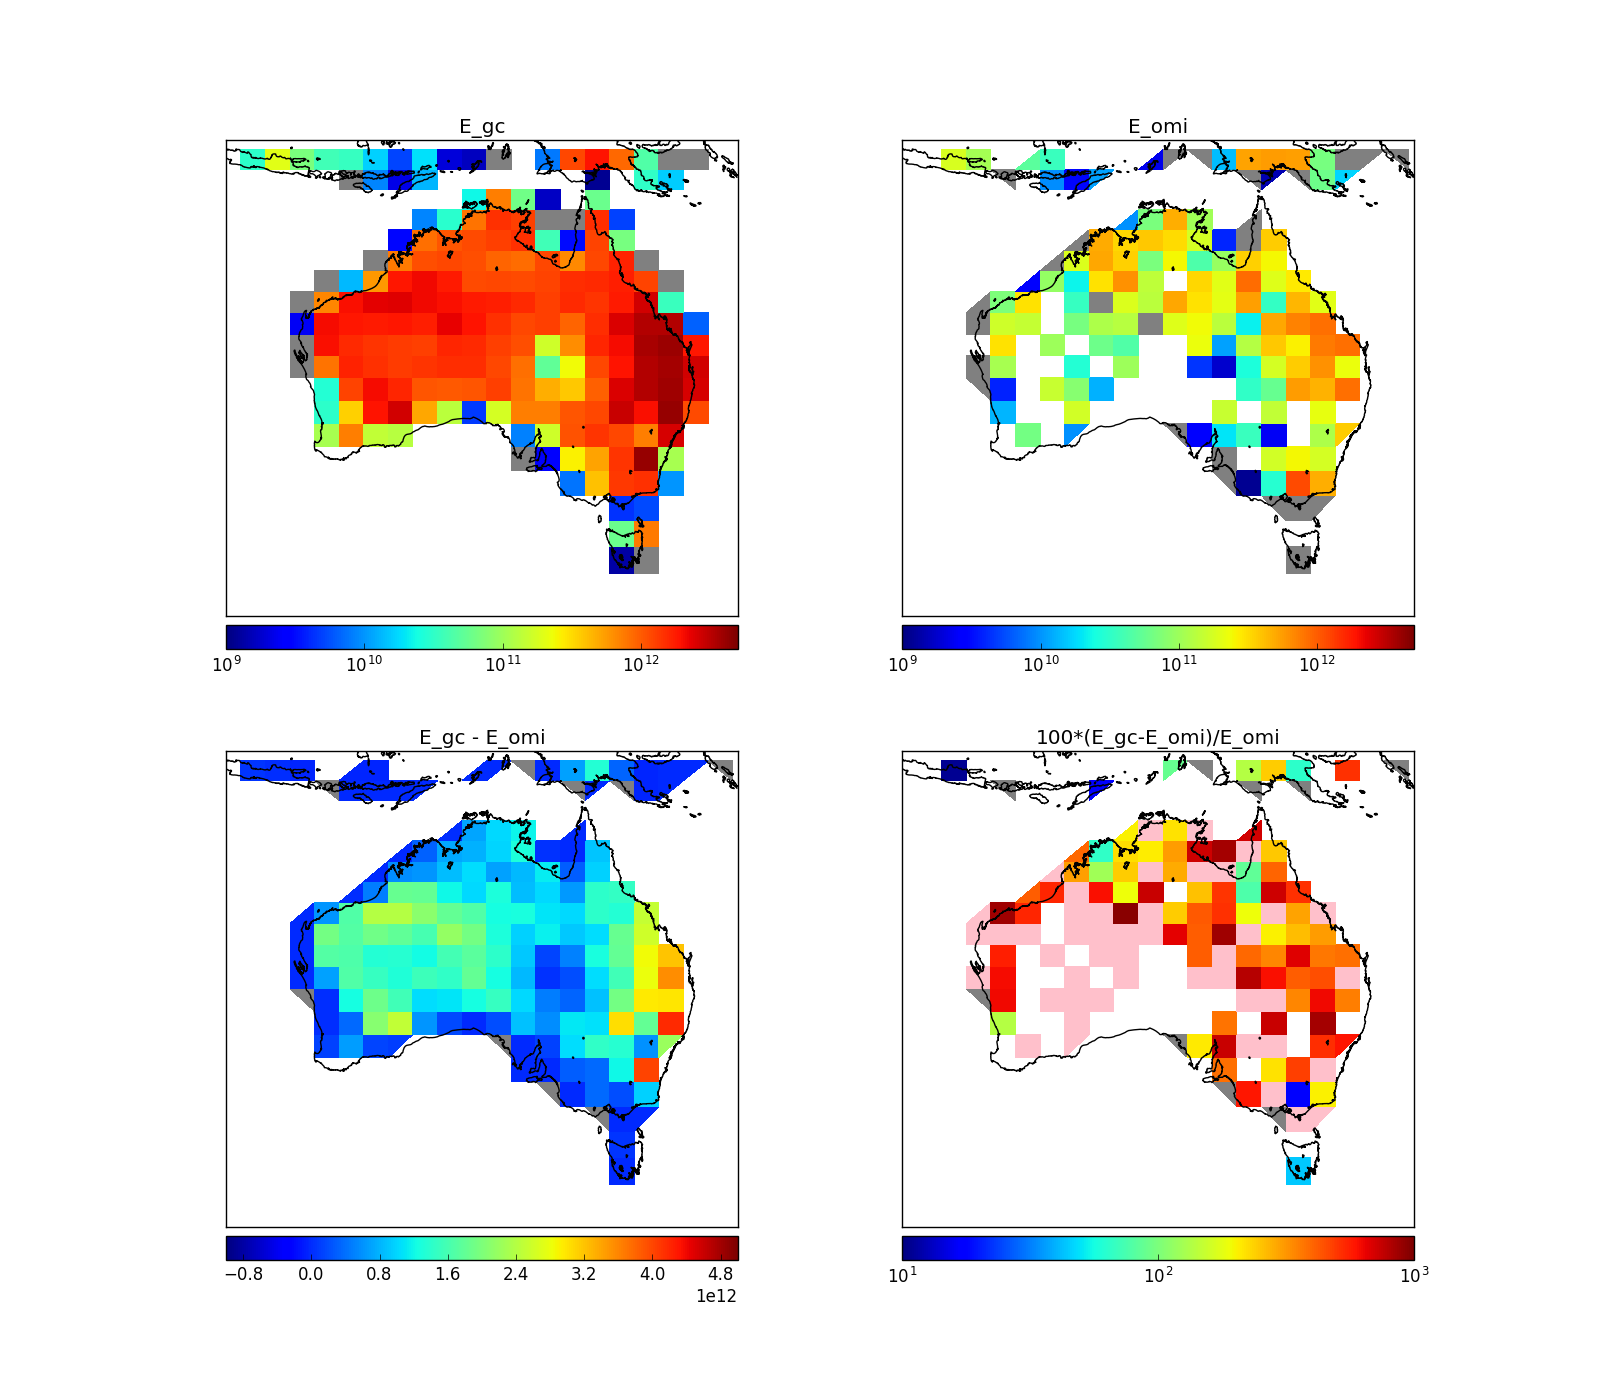
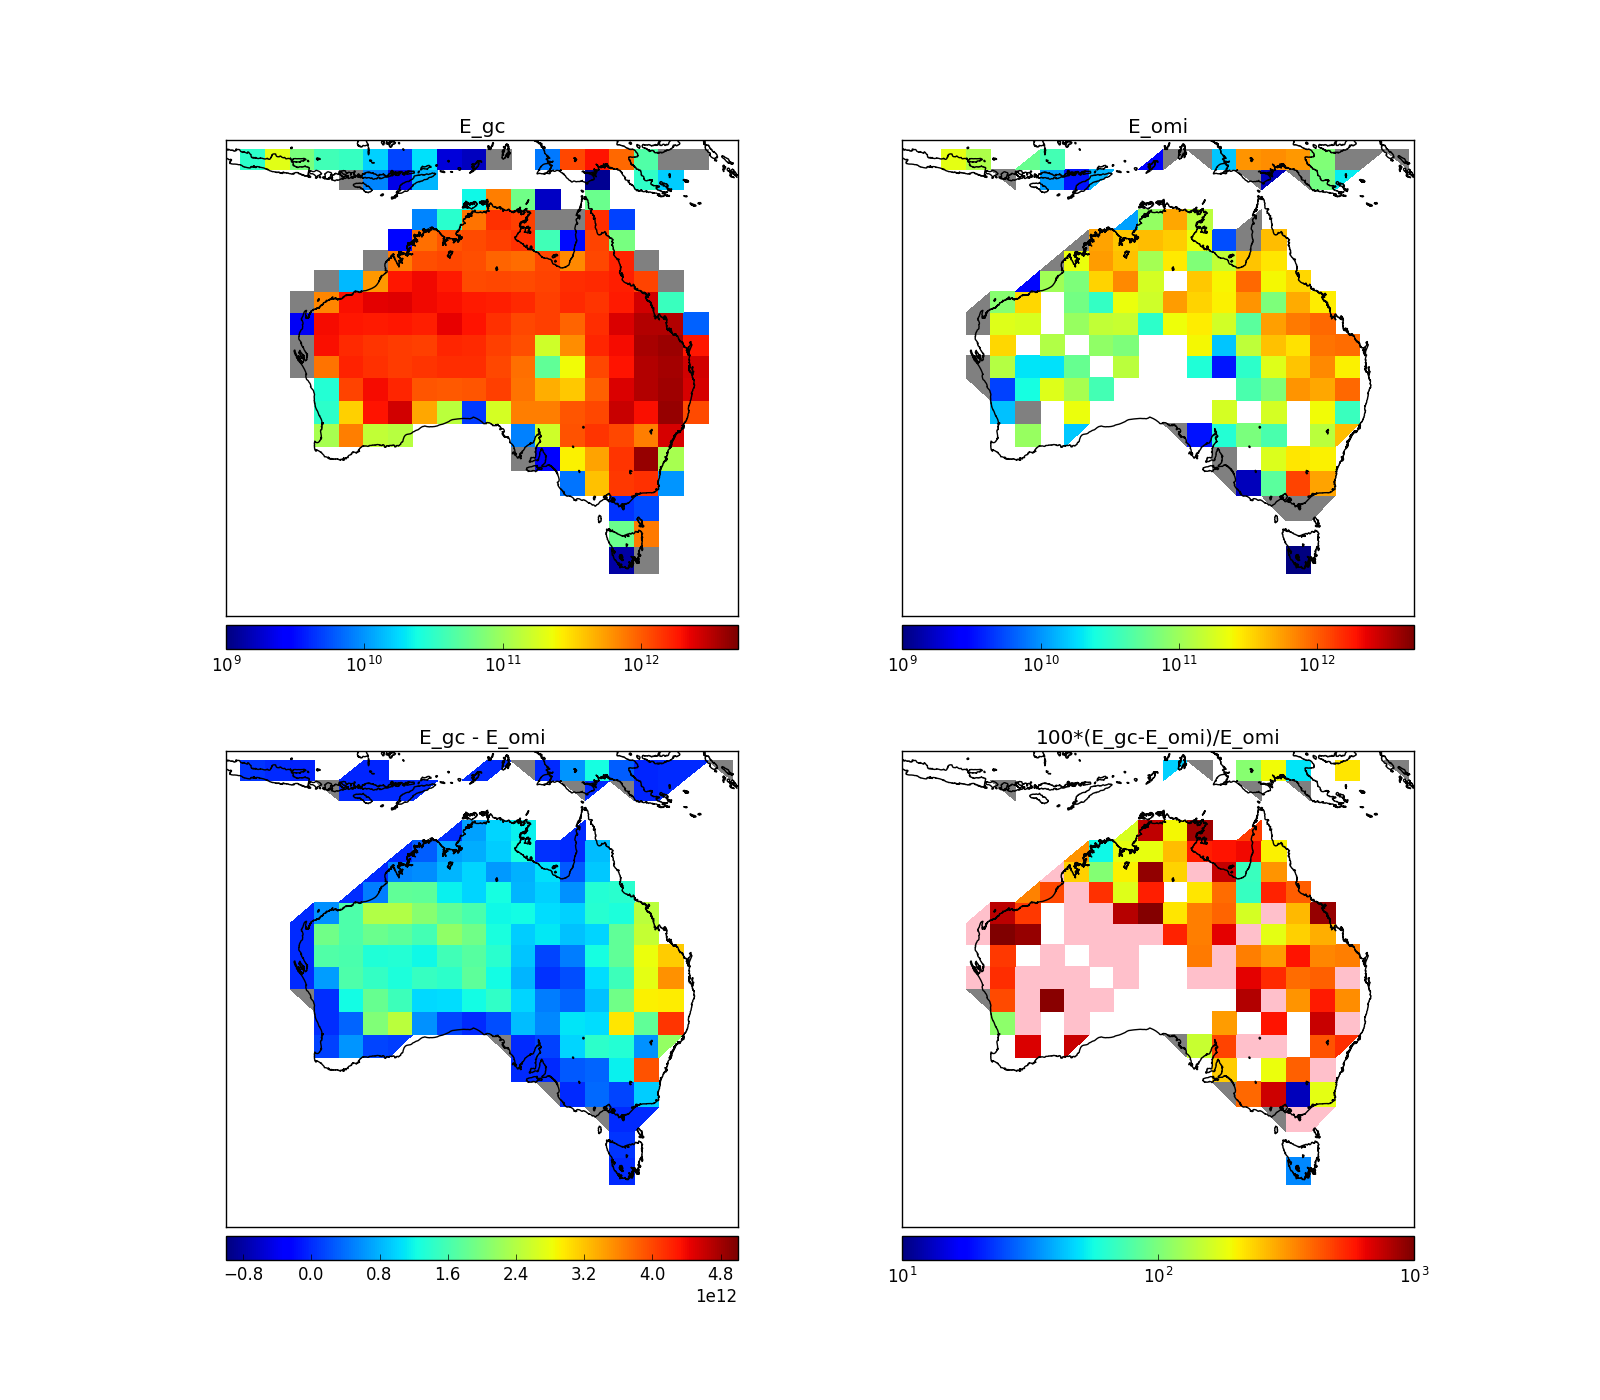
Added lat dependency for omi background determination

diff --git a/omhchorp.py b/omhchorp.py
@@ -19,9 +19,9 @@ __DEBUG__=False
 #_keynames=["AMF_GC","AMF_GCz","AMF_OMI",...]
 
 # Remote pacific as defined in De Smedt 2015 [-15, 180, 15, 240]
-# Changed to -175 to avoid crossing the 179 -> -179 boundary
-__REMOTEPACIFIC__=[-15, -175, 15, -120]
-
+# Change to -175 to avoid crossing the 179 -> -179 boundary?
+__REMOTEPACIFIC__=[-15, -180, 15, -120]
+# __AUSBACKGROUND__=[-40, -180, -10, -120]
 class omhchorp:
     '''
     Class for holding OMI regridded, reprocessed dataset
@@ -164,13 +164,15 @@ class omhchorp:
         ''' return indices of Australia, with or without(default) ocean squares '''
         return self.inds_subset(lat0=-57,lat1=-6,lon0=101,lon1=160,maskocean=maskocean,maskland=maskland)
 
-    def background_HCHO(self):
+    def background_HCHO(self, lats=None):
         ''' return average HCHO over a specific region '''
-        #TODO: implement
+        region=__REMOTEPACIFIC__
+        if lats is not None:
+            region[0]=lats[0]
+            region[2]=lats[1]
         # find the average HCHO column over the __REMOTEPACIFIC__
-        inds = self.region_subset(__REMOTEPACIFIC__,
-                                  maskocean=False,maskland=False)
-
+        inds = self.region_subset(region, maskocean=False, maskland=False)
+        
         BG=np.nanmean(self.VCC[inds])
         return BG
 

diff --git a/Inversion.py b/Inversion.py
@@ -88,7 +88,8 @@ def Emissions(month=datetime(2005,1,1), GC = None, OMI = None, region=pp.__AUSRE
     lats, lons = lats[lati], lons[loni]
     hcho    = hcho[lati,:]
     hcho    = hcho[:,loni]
-    BG      = OMI.background_HCHO()
+    # Determine background using region latitude bounds
+    BG      = OMI.background_HCHO(lats=[region[0],region[2]])
 
 
     ## Calculate Emissions from these
